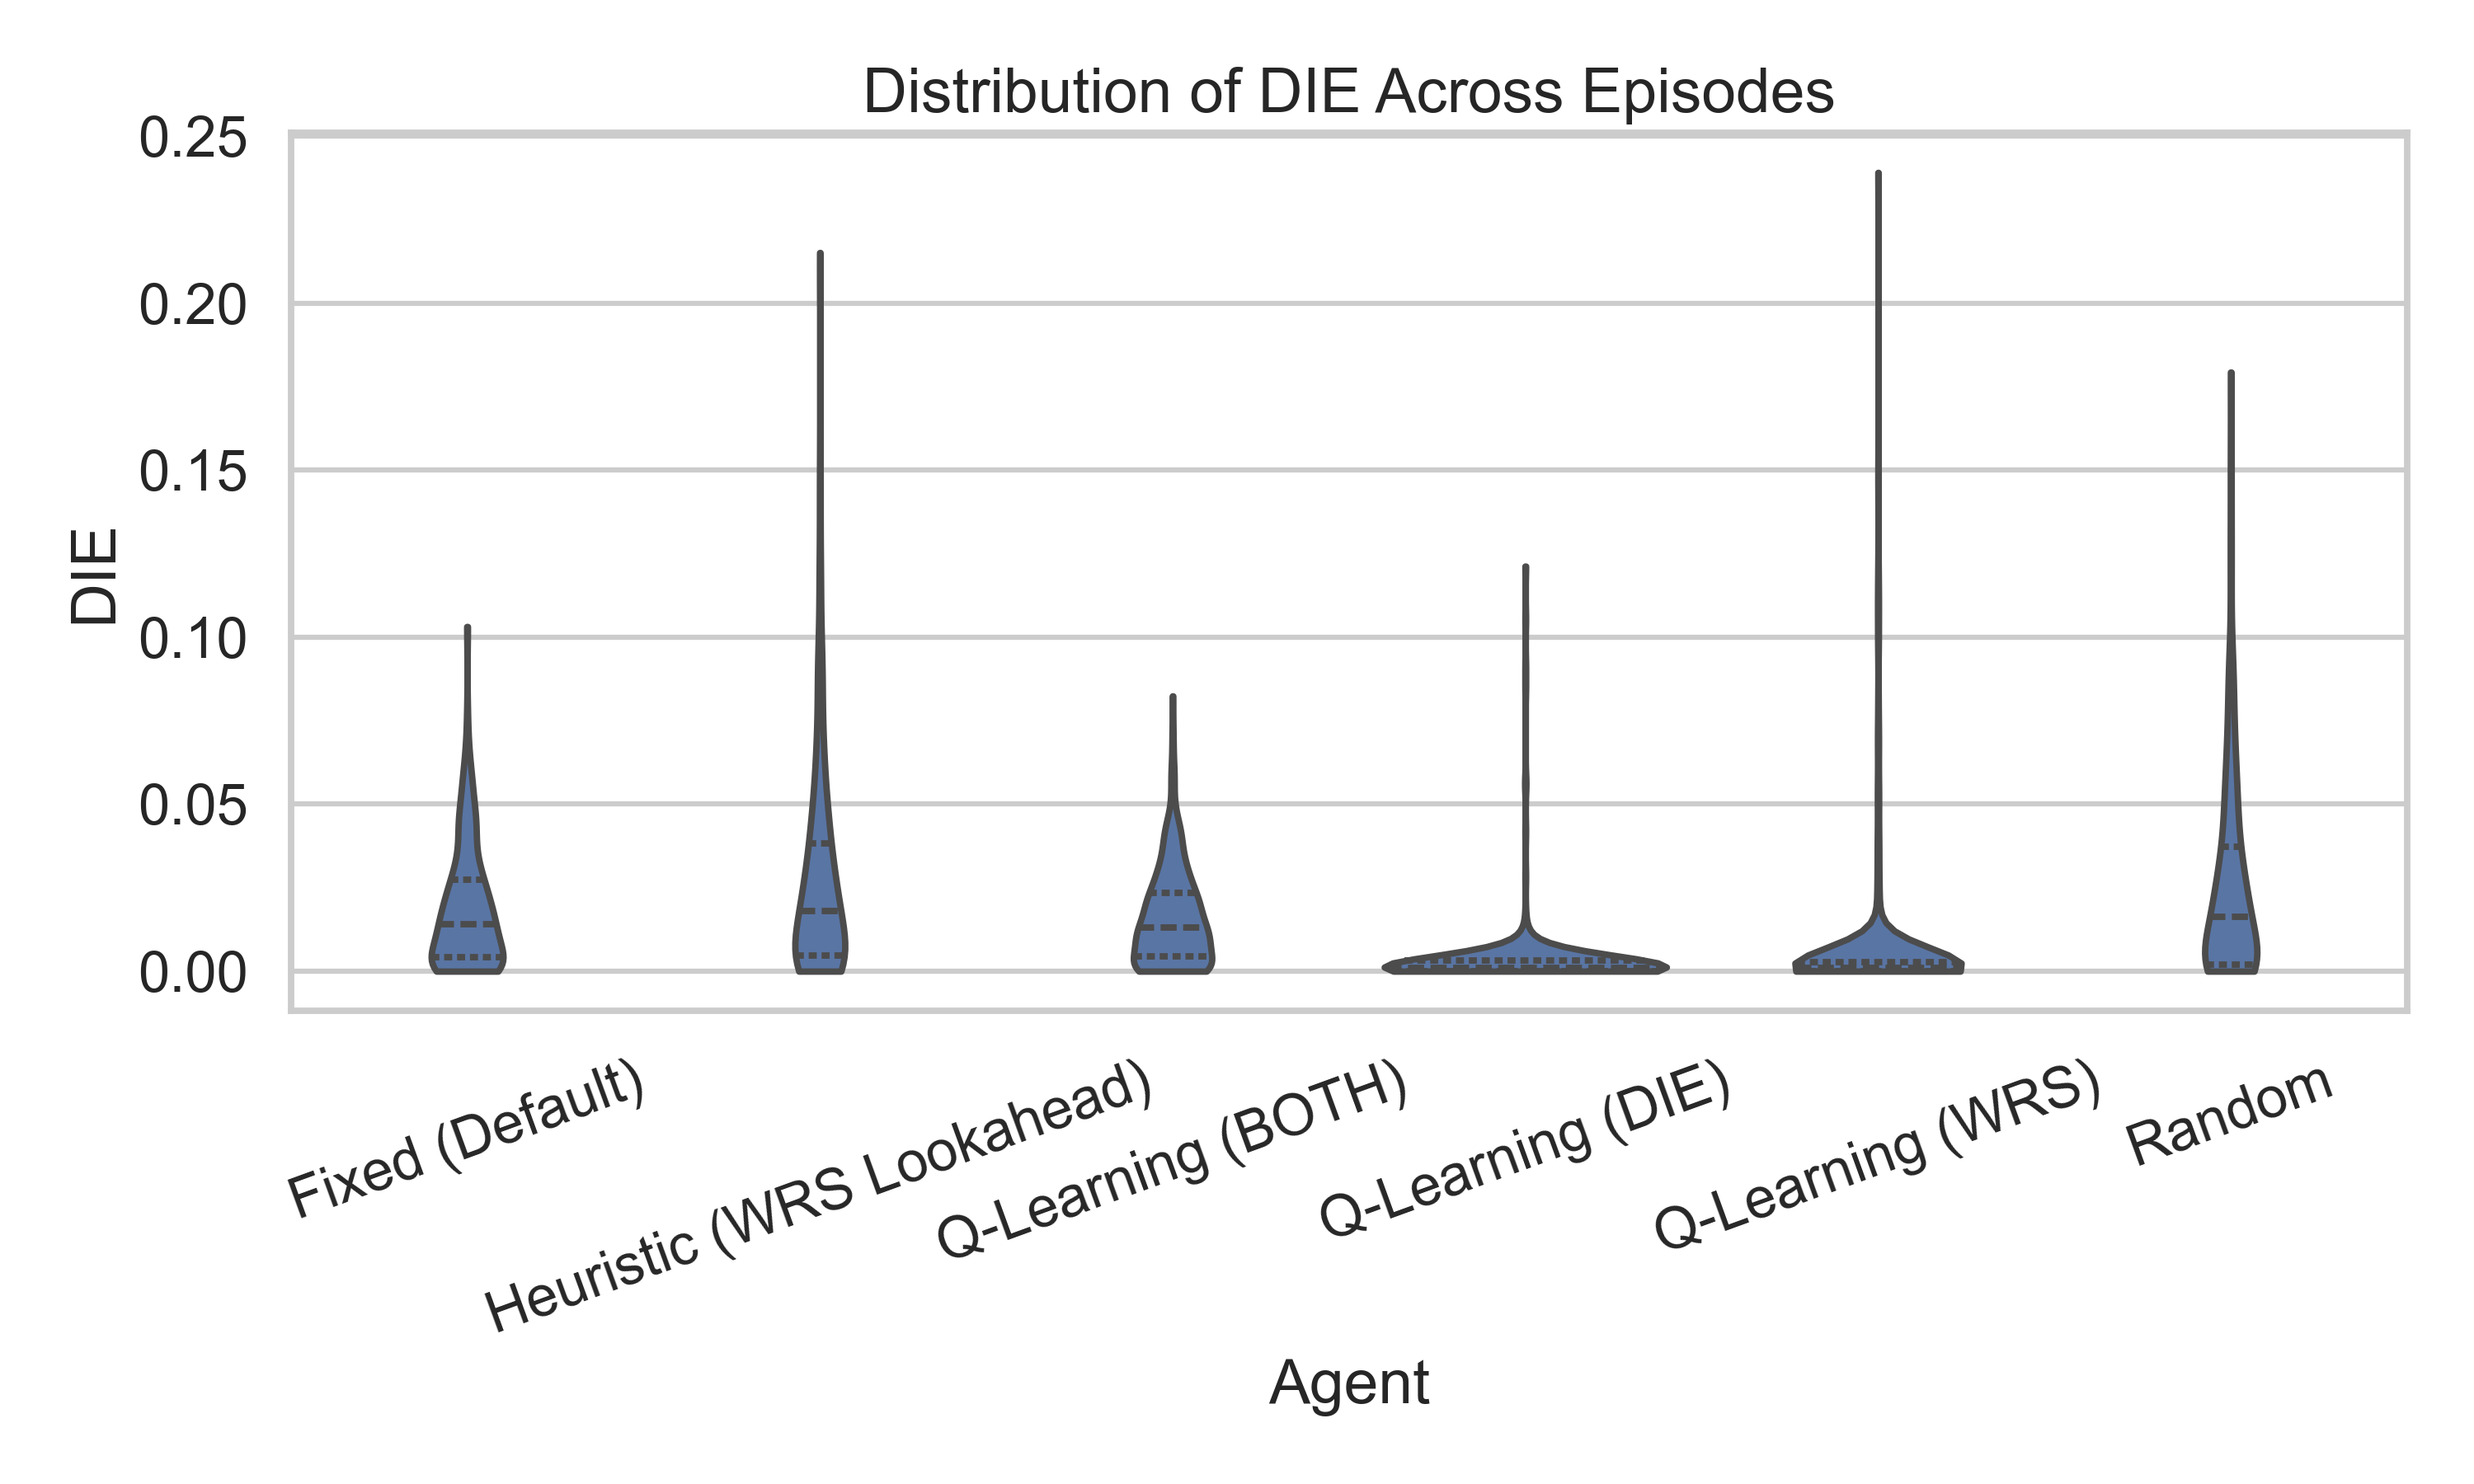
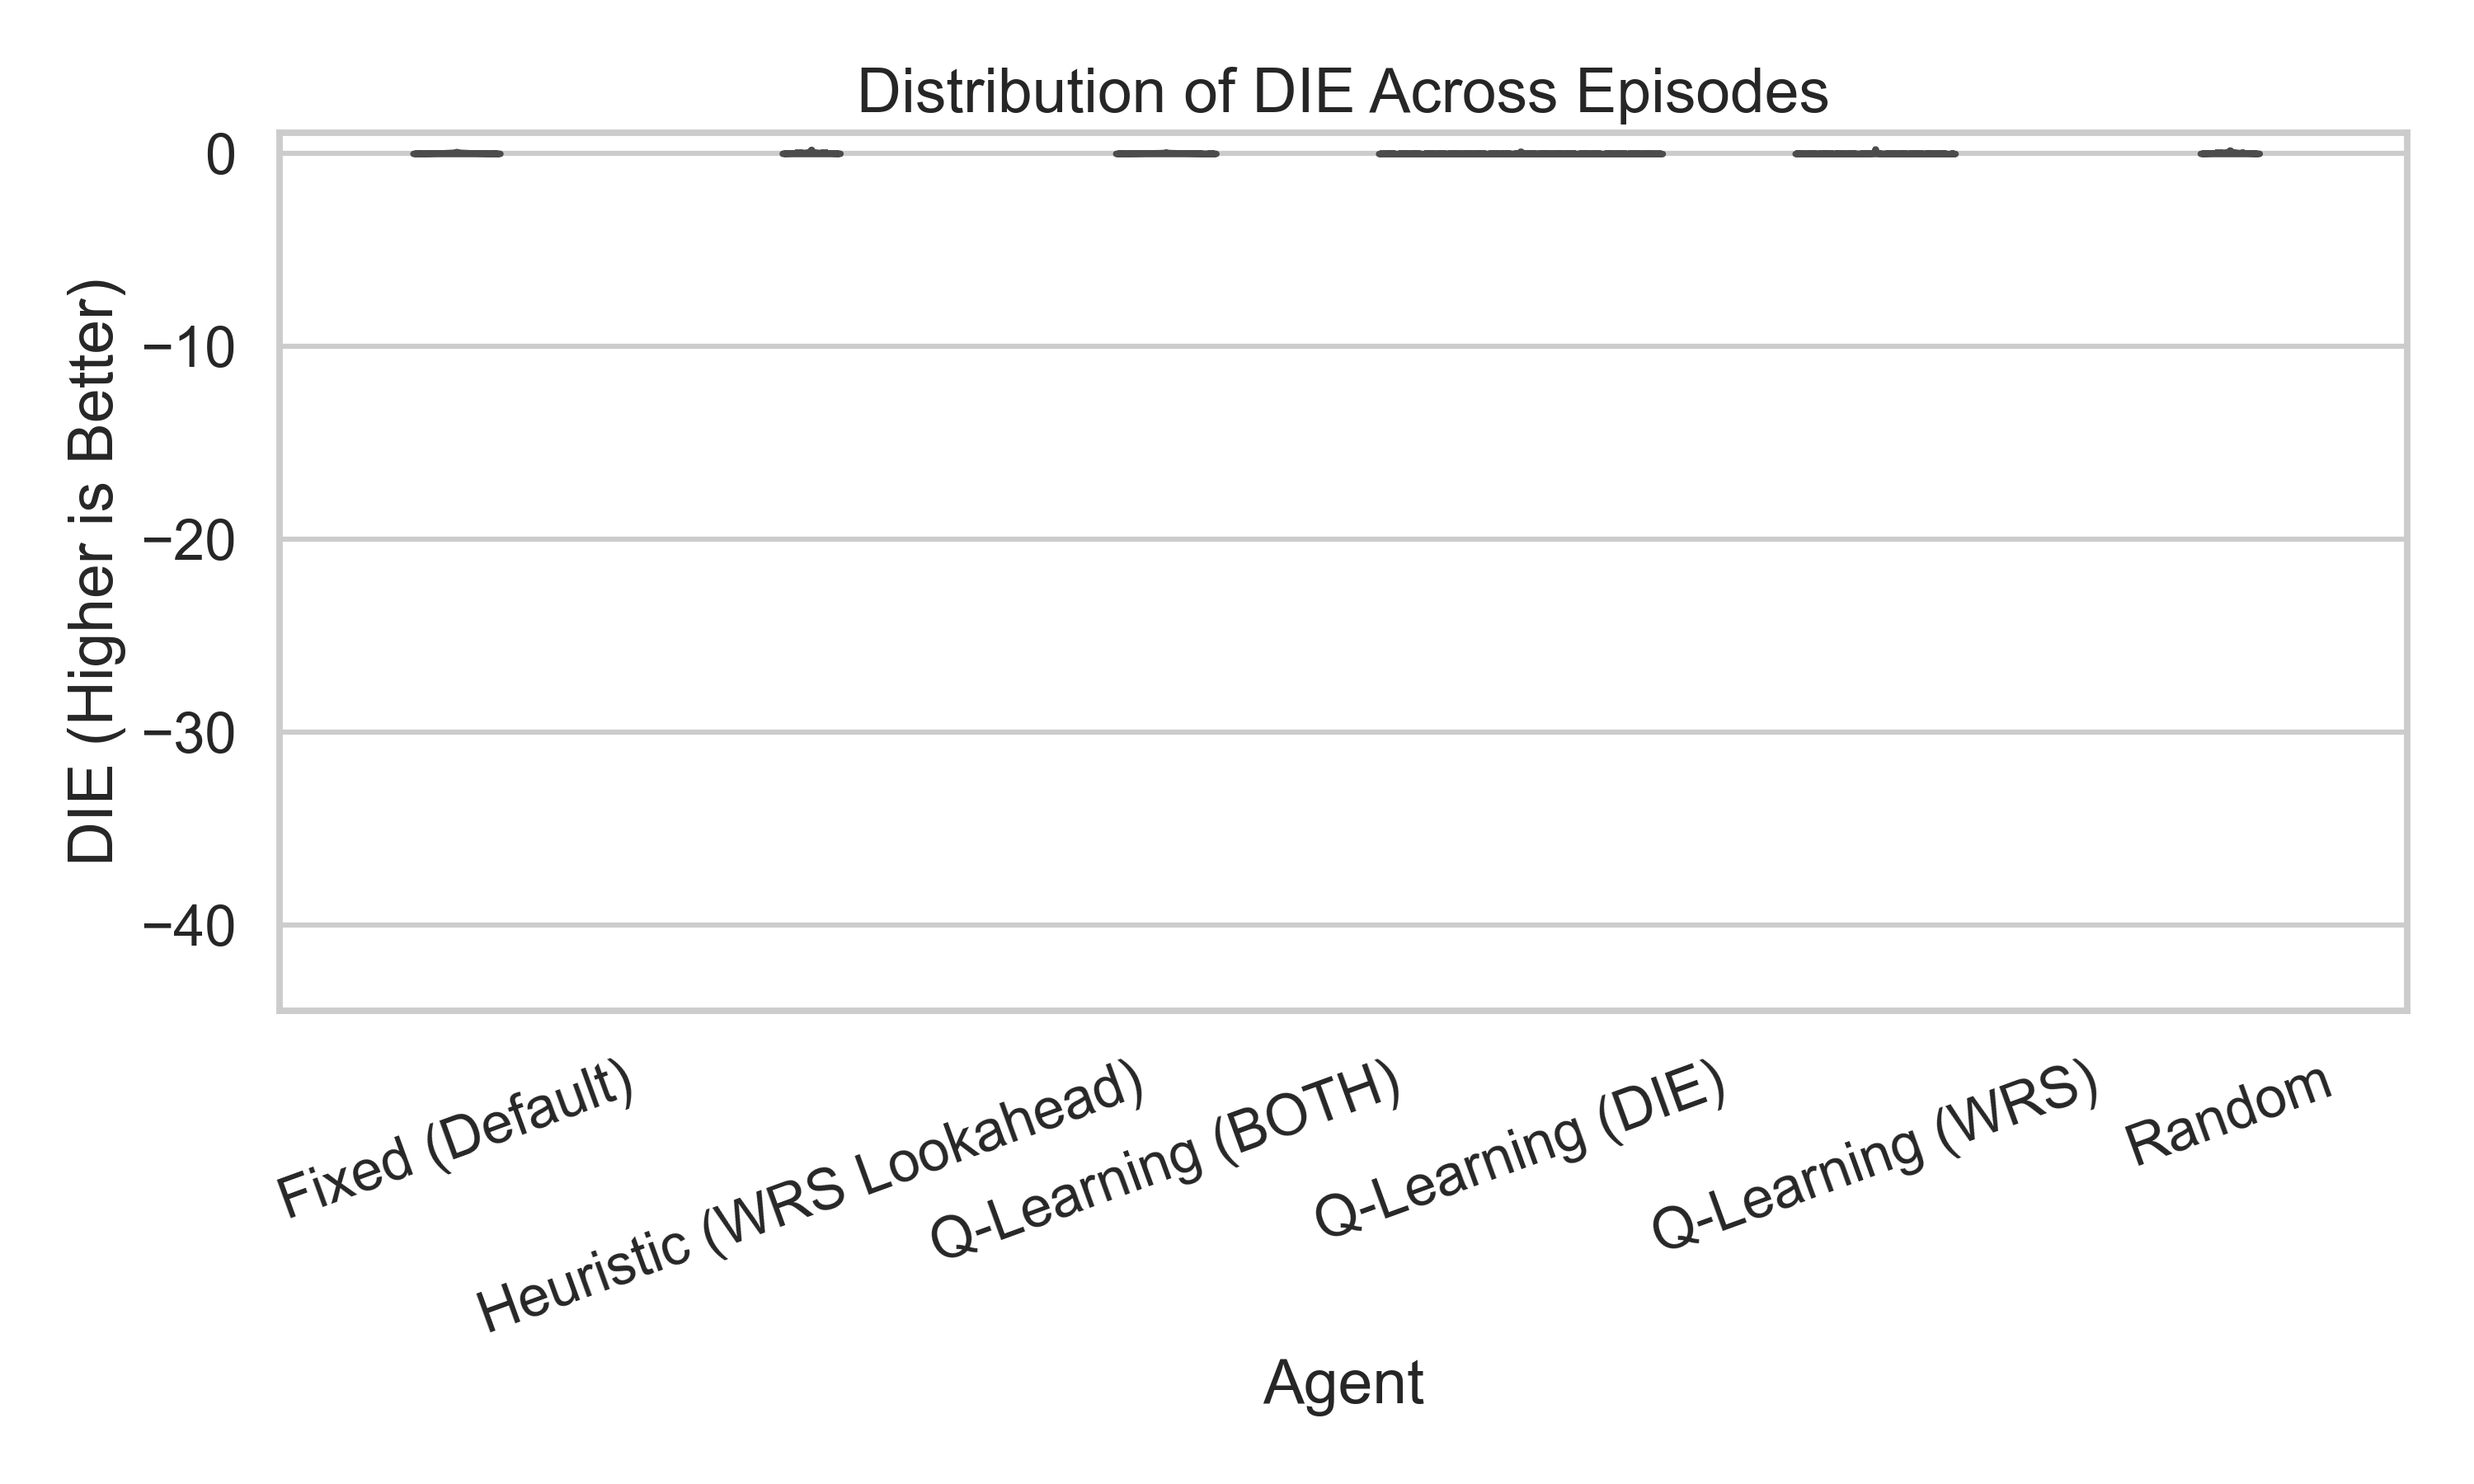
updated plots

diff --git a/code/utils/better_eval_plots.py b/code/utils/better_eval_plots.py
@@ -49,9 +49,17 @@ def plot_violin(df, metric):
         x="Agent",
         y=metric,
         inner="quartile",
-        cut=0
+        cut=0,
+        bw_adjust=1.5
     )
+    min_r = df["Total Reward"].min()
+    max_r = df["Total Reward"].max()
+
+    plt.ylim(min_r, max_r)
+
+    # plt.ylim(-1.0, 1.0)
     plt.title(f"Distribution of {metric} Across Episodes")
+    plt.ylabel(f"{metric} (Higher is Better)")
     plt.xticks(rotation=20)
     plt.tight_layout()
     plt.savefig(f"{OUTPUT_DIR}/violin_{metric.replace(' ','_')}.png", dpi=300)
@@ -71,8 +79,34 @@ def plot_pareto(df):
         hue="Agent",
         s=180
     )
+
+    # Ideal reference point
+    ideal_reward = df["Total Reward"].max()
+    ideal_cost = df["Workflow Cost"].min()
+
+    plt.scatter(
+        ideal_cost,
+        ideal_reward,
+        marker="*",
+        s=300,
+        c="black",
+        label="Ideal (High Reward, Low Cost)",
+        zorder=5
+    )
+
     plt.title("Pareto Trade-off: Reward vs Cost")
+    plt.xlabel("Workflow Cost (Lower is Better)")
+    plt.ylabel("Total Reward (Higher is Better)")
+
+    plt.legend(
+        fontsize=14,
+        title_fontsize=15,
+        markerscale=0.8,
+        loc="upper right"
+    )
+
     plt.tight_layout()
+
     plt.savefig(f"{OUTPUT_DIR}/pareto_reward_cost.png", dpi=300)
     plt.close()
 
@@ -182,7 +216,7 @@ def main():
     plot_pareto(df)
 
     # Heatmaps
-    for m in ["Total Reward", "WRS"]:
+    for m in ["Total Reward", "WRS", "DIE"]:
         plot_heatmap(df, m)
 
     # Stability
